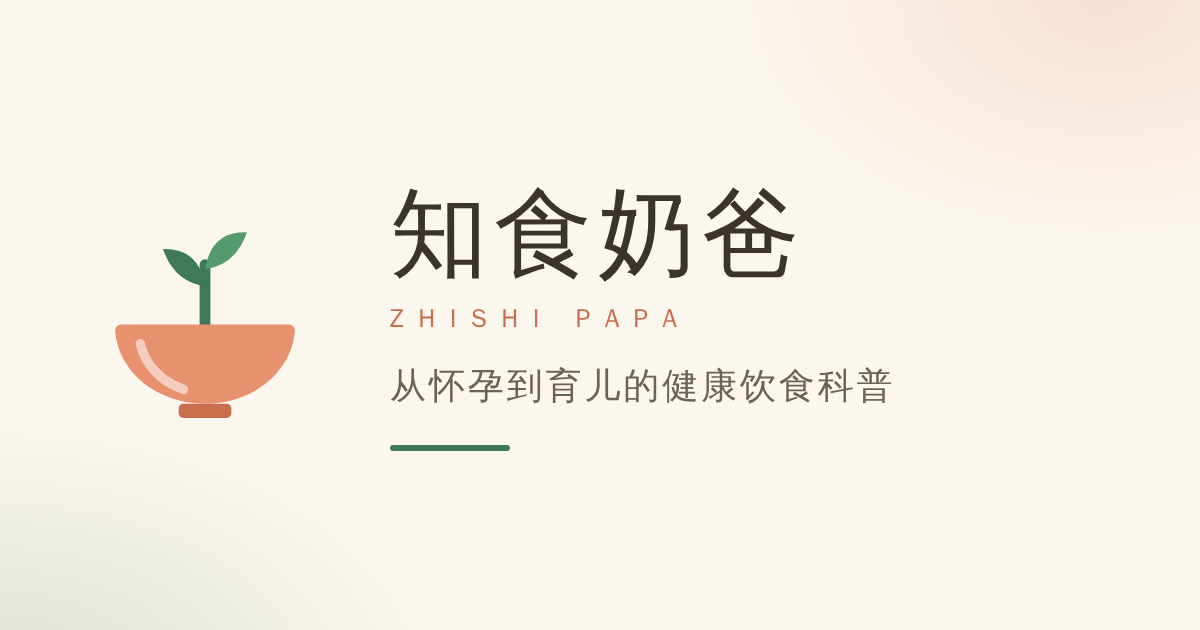
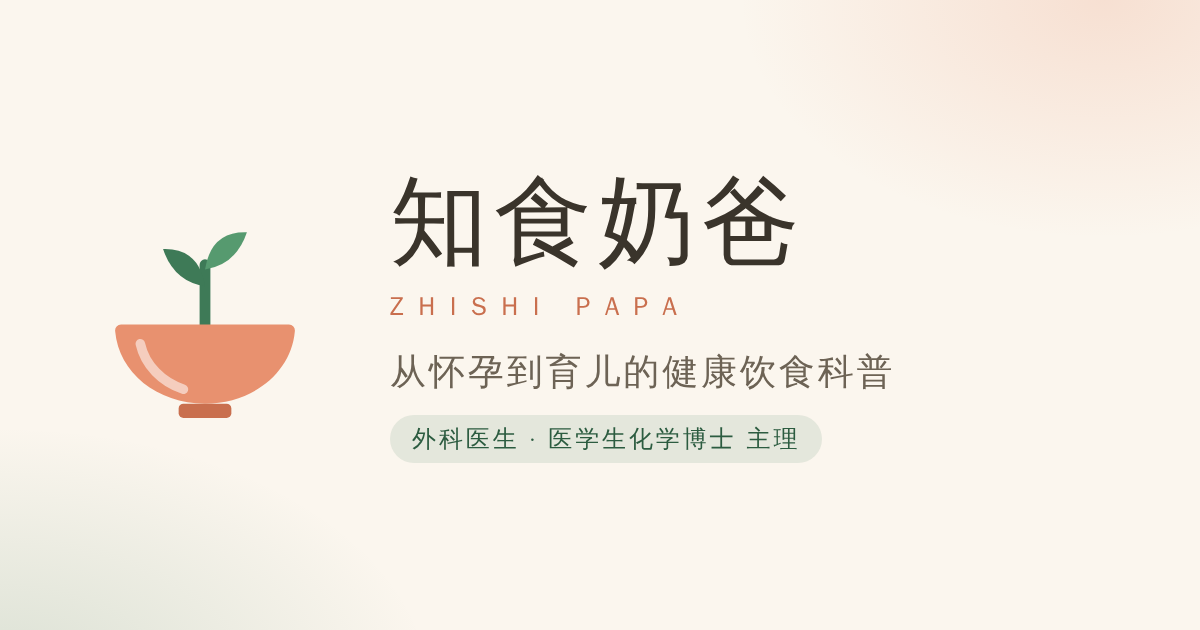
个人IP升级：突出创始人医学背景（外科医生 · 医学生化学博士）
- 「关于我」重写：手术台熟练但家人餐桌要从头学起的医生爸爸故事，
  定位为"把生化机制、临床证据和一日三餐接在一起"
- 首页 hero、作者简介、README、分享封面图加入职业背书
- 免责声明改为医生视角合规版本：线上科普不构成个体化医疗建议、不建立医患关系
- 妊娠糖尿病文章补充医生视角

Claude-Session: https://claude.ai/code/session_011JAMp2ZDbf59rDBnHT4JKo

diff --git a/index.html b/index.html
@@ -10,7 +10,7 @@ title: 首页
 <section class="hero">
   <span class="hero-kicker">{{ site.title_en }} · FROM BUMP TO TABLE</span>
   <h1>从怀孕到育儿，<br>一起养成<em>受益一生</em>的健康饮食习惯</h1>
-  <p>孕期营养、妊娠糖尿病饮食、产后恢复、宝宝辅食与幼儿餐桌——由一位陪太太走过妊娠糖尿病、负责全家三餐的奶爸整理，有依据、说人话、能照做的实用科普。</p>
+  <p>孕期营养、妊娠糖尿病饮食、产后恢复、宝宝辅食与幼儿餐桌——由一位<strong>外科医生、医学生化学博士</strong>，同时也是陪太太走过妊娠糖尿病、负责全家三餐的奶爸整理——有依据、说人话、能照做。</p>
   <div class="hero-actions">
     <a class="btn btn-primary" href="{{ '/about/' | relative_url }}">认识知食奶爸 →</a>
     <a class="btn btn-ghost" href="{{ '/app/' | relative_url }}">🩸 血糖记录工具</a>

diff --git a/_layouts/post.html b/_layouts/post.html
@@ -28,7 +28,7 @@ layout: default
   </div>
 
   <div class="post-disclaimer">
-    💡 以上内容为个人经验与公开资料整理的科普分享，不构成医疗建议。每个人情况不同，请结合自身状况并咨询专业医生或营养师。
+    💡 以上内容为科普分享。作者虽有医学背景，但线上内容无法替代面对面诊疗，不构成针对个人的医疗建议。每个人情况不同，请结合自身状况咨询你的主治医生或营养师。
   </div>
 
   {% if page.categories.size > 0 %}

diff --git a/_posts/2026-07-01-gdm-diet-basics.md b/_posts/2026-07-01-gdm-diet-basics.md
@@ -6,7 +6,7 @@ tags: [妊娠糖尿病, 控糖, GI, 进餐顺序]
 description: 从确诊到血糖平稳，我们家亲测有效的妊娠糖尿病饮食方法：碳水怎么分配、进餐顺序怎么调、加餐吃什么，附血糖目标值和记录工具。
 ---
 
-太太拿到「妊娠期糖尿病（GDM）」诊断的那天，我们在医院走廊坐了很久。但作为陪她走完一整个孕期、负责做每一餐的人，我想告诉你：**GDM 是所有孕期并发症里最"可控"的一种**——它对饮食调整的反应立竿见影，而且这些方法会让你受益终身。
+太太拿到「妊娠期糖尿病（GDM）」诊断的那天，我们在医院走廊坐了很久。但作为一名外科医生、也是陪她走完一整个孕期并负责做每一餐的人，我想告诉你：**GDM 是所有孕期并发症里最"可控"的一种**——医学上它的干预路径非常清晰，饮食调整的反应立竿见影，而且这些方法会让你受益终身。
 
 ## 先记住血糖目标值
 

diff --git a/README.md b/README.md
@@ -2,7 +2,7 @@
 
 <p align="center"><img src="assets/images/logo.svg" width="96" alt="知食奶爸 Logo"></p>
 
-> 「知食，也是知识」——由一位陪太太走过妊娠糖尿病的奶爸打造的健康饮食科普网站，覆盖备孕、孕期、产后、辅食、宝宝餐桌五个阶段。
+> 「知食，也是知识」——由一位外科医生、医学生化学博士，同时也是陪太太走过妊娠糖尿病的奶爸打造的健康饮食科普网站，覆盖备孕、孕期、产后、辅食、宝宝餐桌五个阶段。
 
 **🌐 网站地址**：https://kkailab.github.io/tangma-diary/
 
